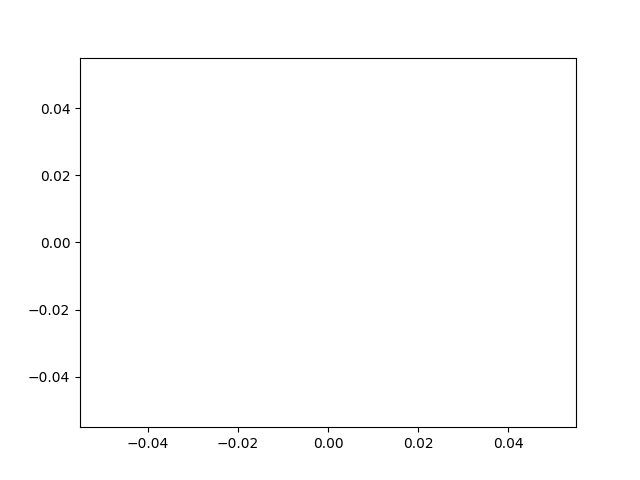
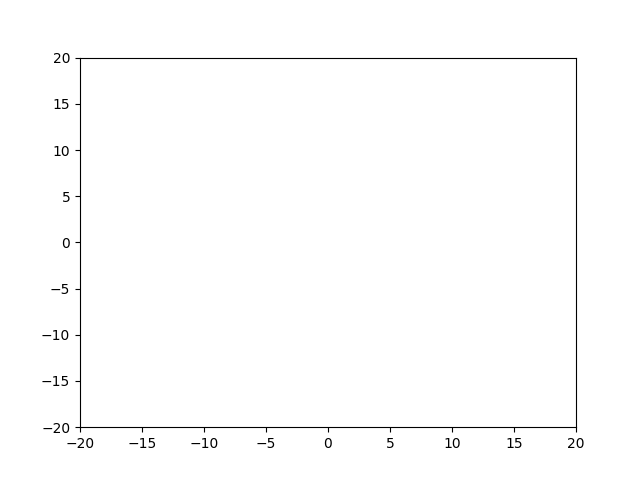
less_11

diff --git a/lab_11_task_1.py b/lab_11_task_1.py
@@ -7,9 +7,10 @@ m=0.5
 g=9.8
 f=0.1
 mu = 0.2
+v=20
 
-frames=100
-t=np.linspace(0,5,frames)
+frames=200
+t=np.linspace(0,100,frames)
 
 def diff(w, t):
     x, vx, y, vy = w
@@ -20,15 +21,16 @@ def diff(w, t):
     return dxdt, dvxdt, dydt, dvydt
 
 x0 = 0
-v0x = 0
+v0x = v*np.cos(90)
 y0 = 0
-v0y = 20
+v0y = v*np.sin(90)
 w0 = x0, v0x, y0, v0y
 
 def move(i):
     risovalka = odeint(diff, w0, t)
     x = risovalka[i, 0]
     y = risovalka[i, 2]
+    return x, y
 
 fig, ax = plt.subplots()
 ball, = plt.plot([], [])
@@ -36,10 +38,10 @@ ball, = plt.plot([], [])
 def animate(i):
     ball.set_data(move(i))
 
-ani = FuncAnimation(animate, frames=frames, interval=30)
+ani = FuncAnimation(fig, animate, frames=frames, interval=30)
 
-edge = 15
-ax.set_xlim(0, edge)
-ax.set_ylim(0, edge)
+edge = 20
+ax.set_xlim(-edge, edge)
+ax.set_ylim(-edge, edge)
 
 plt.savefig('pic2.png')
